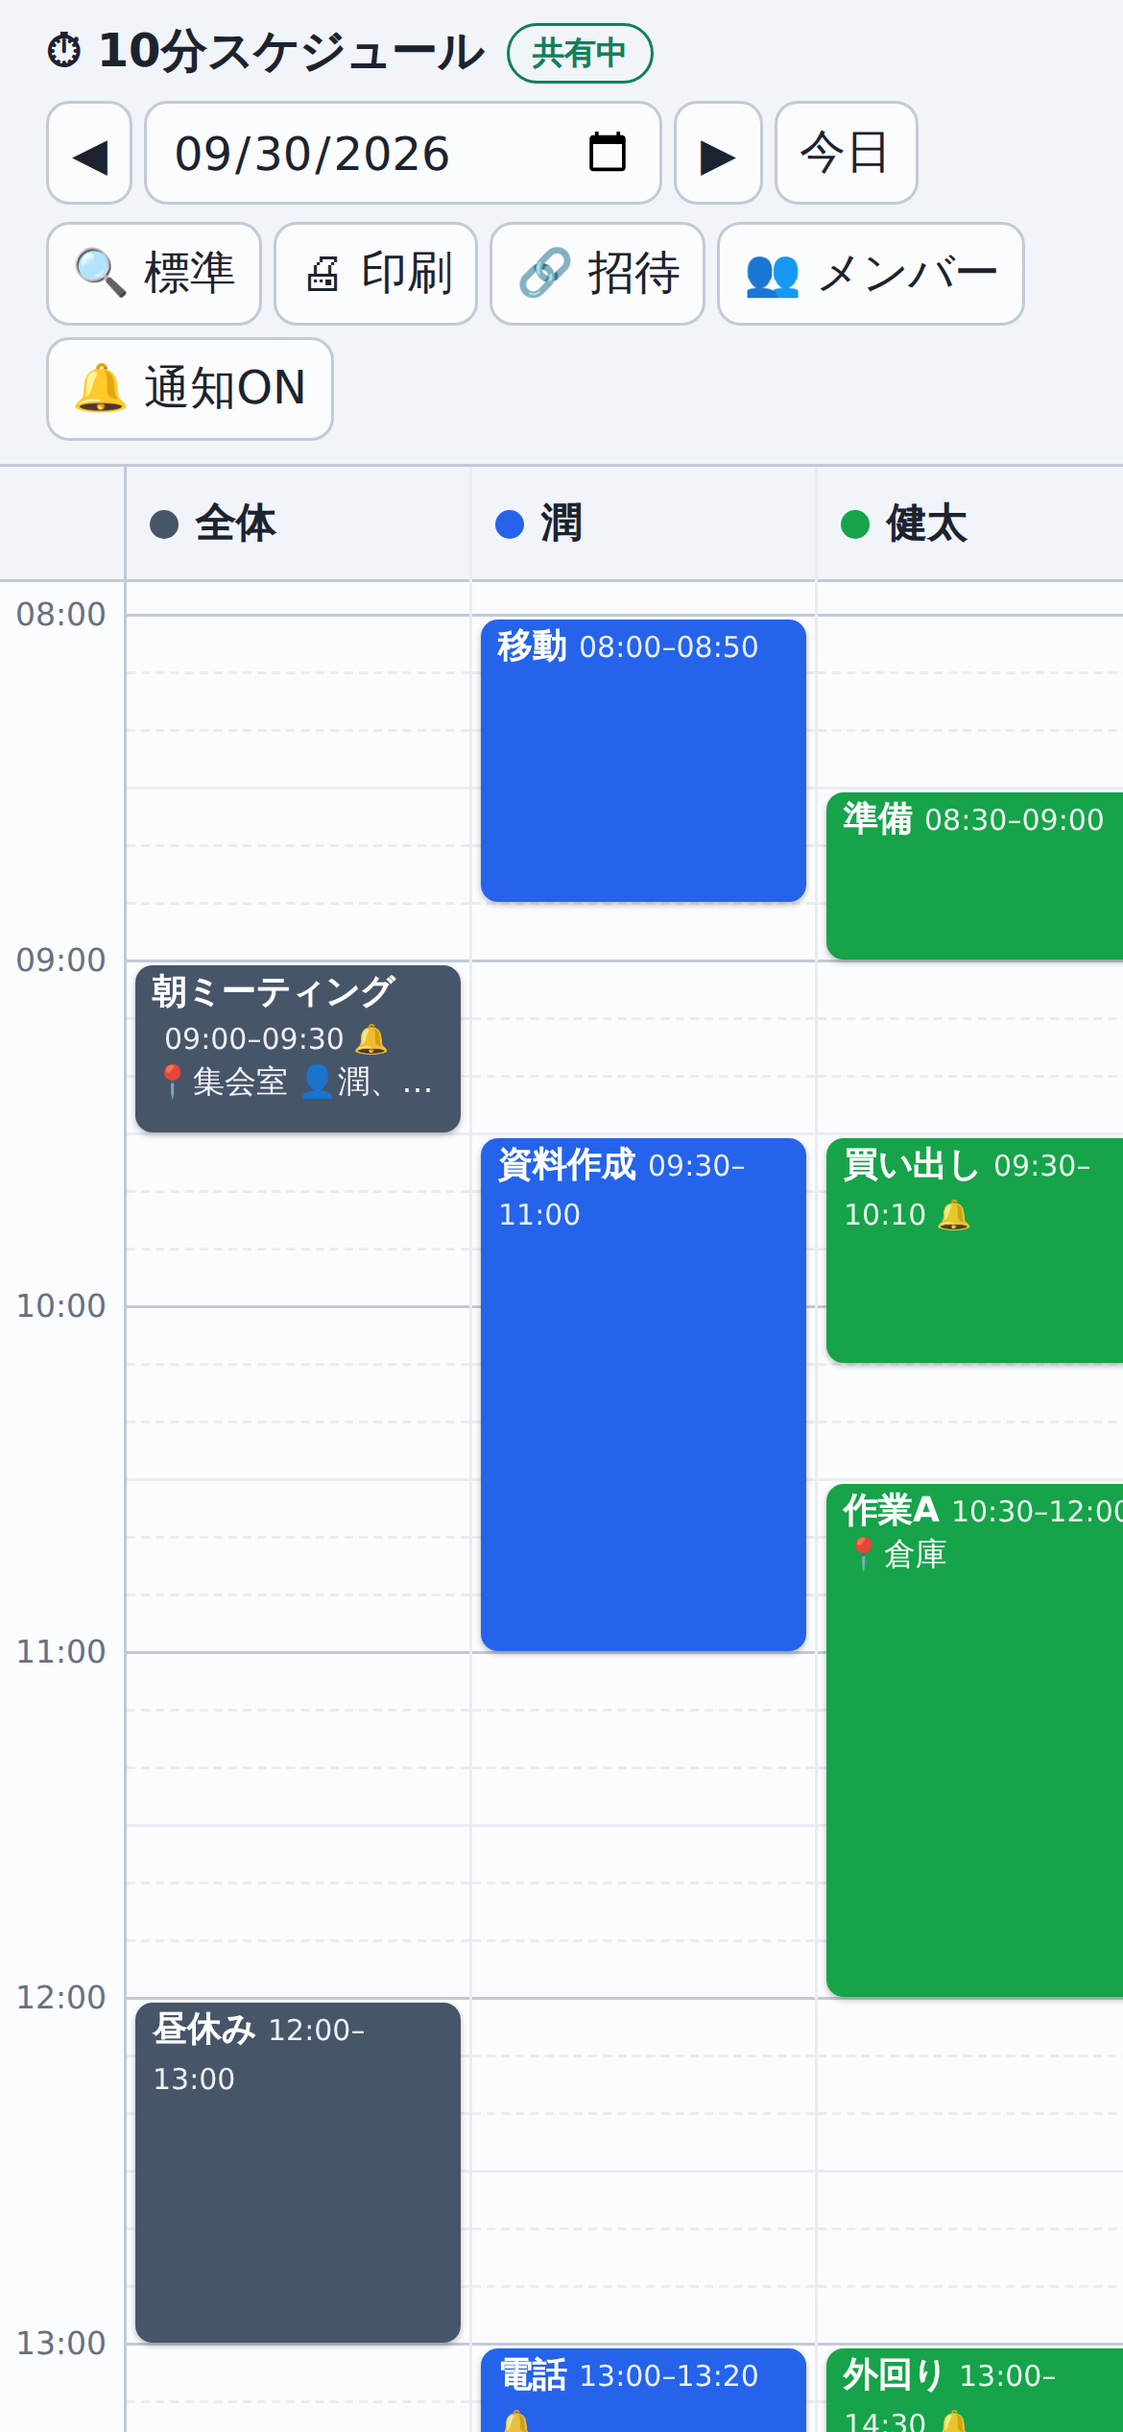
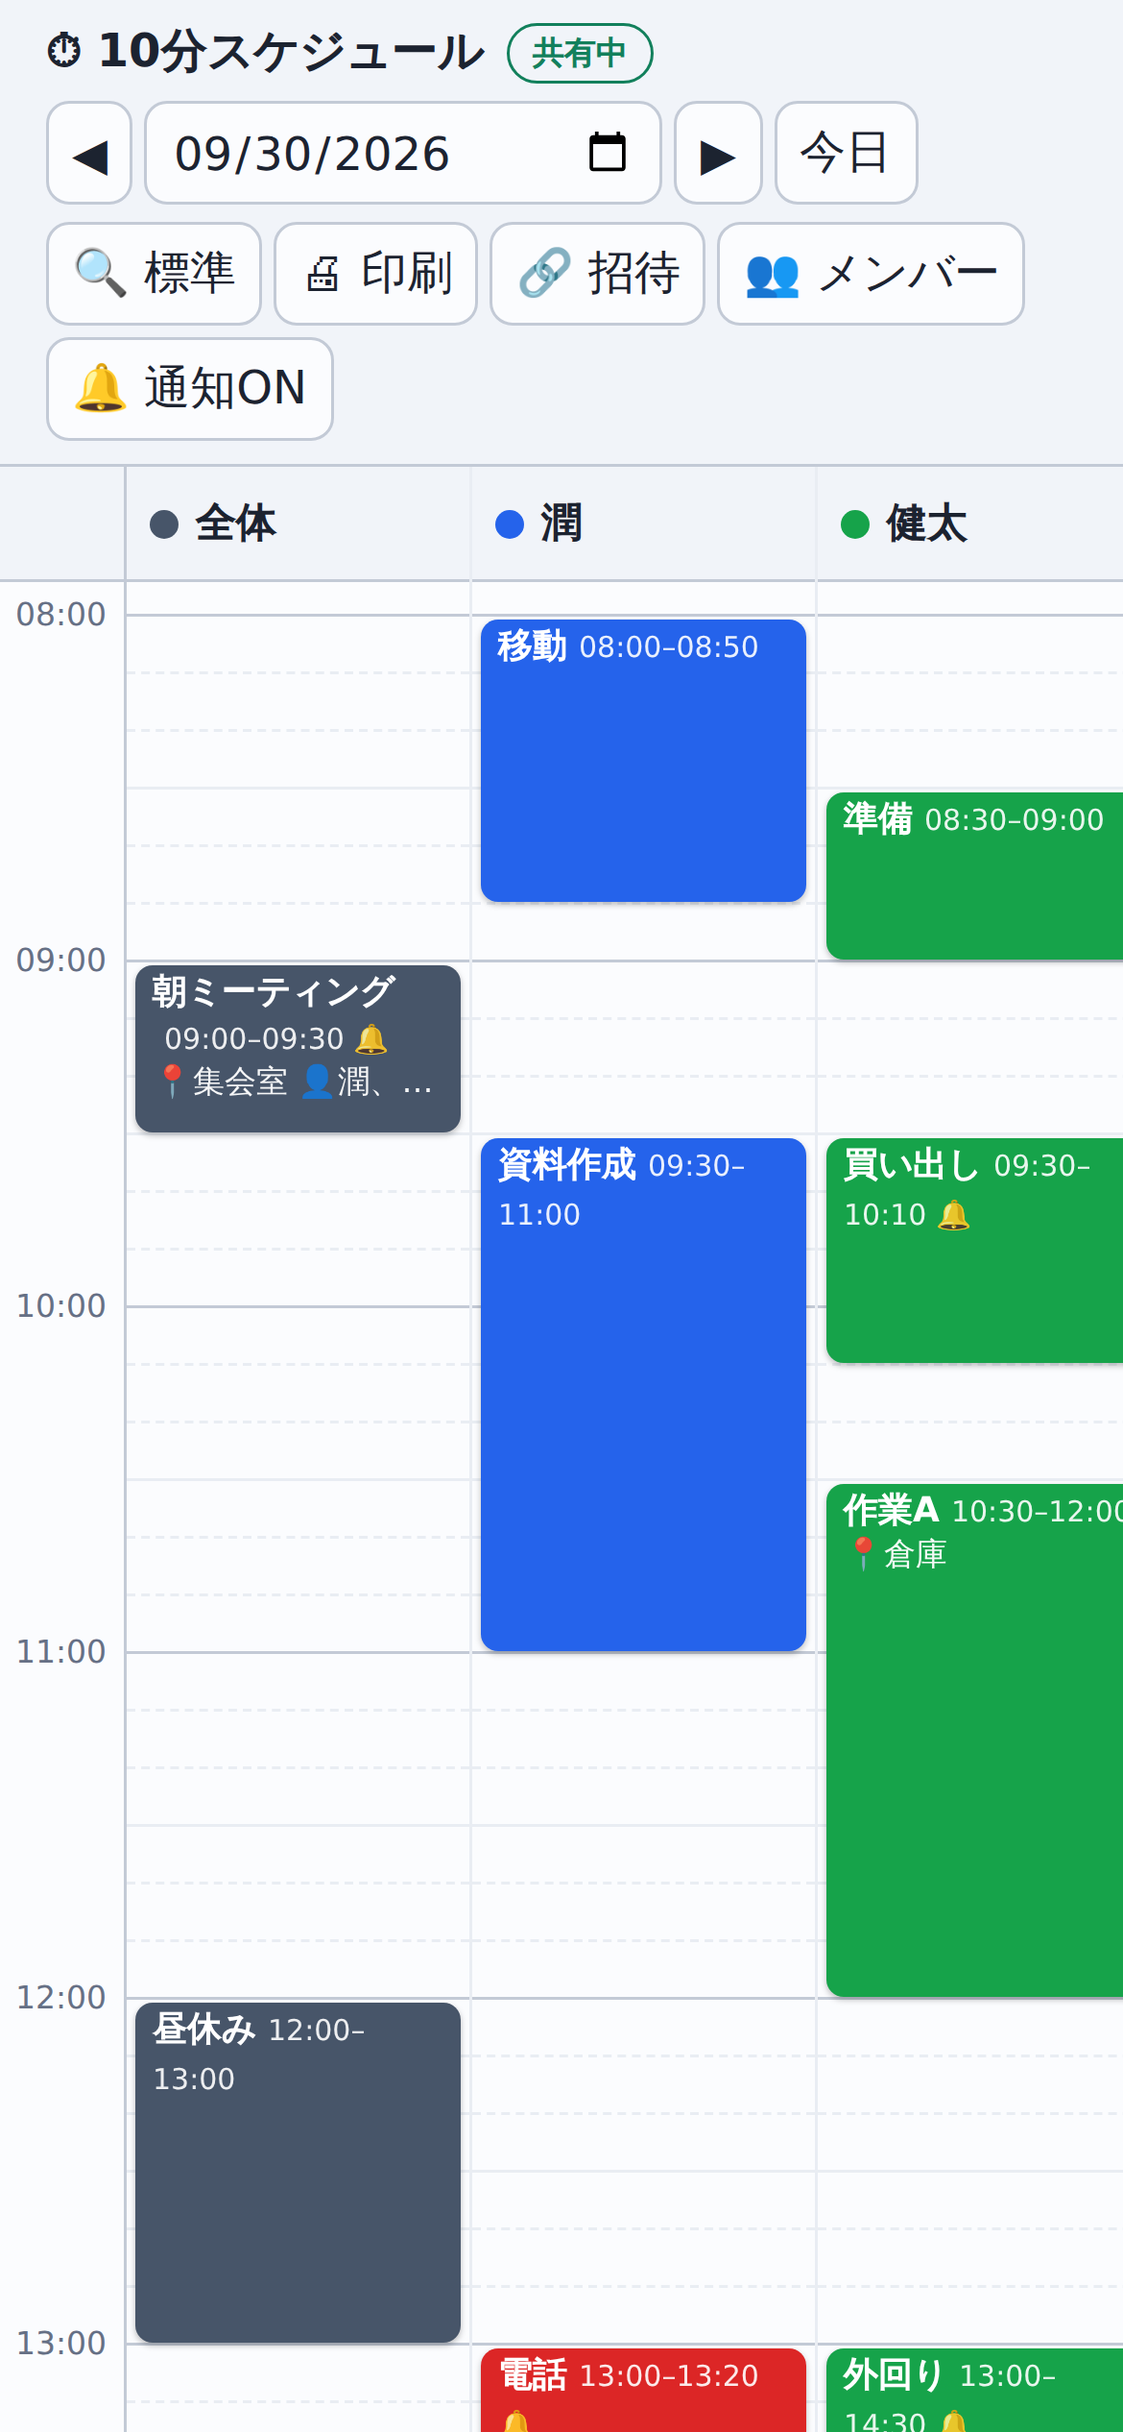
Let each event choose its own color
- Editor: "予定の色" with "メンバーの色" (default) plus 10 colours that keep
  white text readable; the default chip previews the selected member's colour
- Blocks and printed sheets use the event colour when set
- Empty colour is not sent; rules accept an optional #RRGGBB colour
- Tests now 61

Claude-Session: https://claude.ai/code/session_01HxEd5oszLPg2p3dJRWE6F7

Changed region(s): [[0.4308, 0.9672, 0.7385, 1.0]]

diff --git a/index.html b/index.html
@@ -114,6 +114,15 @@
   .row { display: flex; flex-wrap: wrap; gap: 8px; align-items: center; }
   .row > * { flex: 1; min-width: 90px; }
   dialog label > input[type=text], dialog label > select { width: 100%; min-width: 0; }
+  .field { display: grid; gap: 6px; }
+  .field-label { font-size: 13px; color: var(--muted); }
+  .swatches { display: flex; flex-wrap: wrap; gap: 8px; align-items: center; }
+  .swatch { width: 32px; height: 32px; min-height: 0; padding: 0; border-radius: 50%; border: 2px solid var(--bg);
+    box-shadow: 0 0 0 1px var(--line-strong); }
+  .swatch.default { width: auto; border-radius: 16px; padding: 0 10px 0 6px; display: inline-flex; align-items: center; gap: 6px;
+    background: var(--bg); font-size: 12px; box-shadow: 0 0 0 1px var(--line-strong); }
+  .swatch.default i { width: 20px; height: 20px; border-radius: 50%; display: inline-block; }
+  .swatch[aria-pressed="true"] { box-shadow: 0 0 0 3px var(--fg); }
   .actions { display: flex; flex-wrap: wrap; gap: 8px; justify-content: flex-end; margin-top: 6px; }
   .actions .danger { margin-right: auto; }
   .member-row { display: flex; gap: 6px; align-items: center; }
@@ -173,6 +182,10 @@
     <label>場所<input type="text" id="fPlace" placeholder="例: 第1会議室" maxlength="40"></label>
     <label>担当者（「、」で区切って10人まで）<input type="text" id="fPerson" placeholder="例: 田中、佐藤、鈴木" maxlength="200"></label>
     <label>メンバー（表示する列）<select id="fMember"></select></label>
+    <div class="field">
+      <span class="field-label">予定の色</span>
+      <div class="swatches" id="fColor" role="group" aria-label="予定の色"></div>
+    </div>
     <div class="row">
       <label>開始<select id="fStart"></select></label>
       <label>終了<select id="fEnd"></select></label>
@@ -283,6 +296,9 @@
   const ZOOM_KEY = 'tenmin-zoom';
   const NOTIFY_FOR_KEY = 'tenmin-notify-for';
   const COLORS = ['#2563eb', '#16a34a', '#db2777', '#ea580c', '#7c3aed', '#0891b2', '#ca8a04', '#475569'];
+  // 予定ごとに選べる色（白い文字が読める濃さの色だけ）
+  const EVENT_COLORS = ['#2563eb', '#0891b2', '#16a34a', '#65a30d', '#ca8a04', '#ea580c', '#dc2626', '#db2777', '#7c3aed', '#475569'];
+  const EVENT_COLOR_NAMES = ['青', '水色', '緑', '黄緑', '黄土', 'オレンジ', '赤', 'ピンク', '紫', 'グレー'];
   const MAX_PEOPLE = 10;                     // 1つの予定に入れられる担当者の人数
   const ZOOMS = [{ h: 12, label: '小' }, { h: 20, label: '標準' }, { h: 32, label: '大' }];
   // claude.ai の中（iframe）で開かれているか。中では印刷画面やファイル保存が使えない
@@ -324,6 +340,7 @@
       title: String(d.title ?? '').slice(0, 60),
       place: String(d.place ?? '').slice(0, 40),
       person: String(d.person ?? '').slice(0, 200),
+      color: /^#[0-9a-fA-F]{6}$/.test(d.color) ? d.color : '',
       remind: [0, 5, 10, 15, 30, 60].includes(Number(d.remind)) ? Number(d.remind) : 0,
       updatedAt: Number(d.updatedAt) || 0,
     };
@@ -376,6 +393,7 @@
     const b = body(ev);
     if (!b.place) delete b.place;
     if (!b.person) delete b.person;
+    if (!b.color) delete b.color;
     return b;
   };
 
@@ -516,7 +534,7 @@
         el.className = 'ev';
         el.style.top = `calc(var(--h) * ${ev.start} + 1px)`;
         el.style.height = `calc(var(--h) * ${ev.end - ev.start} - 2px)`;
-        el.style.background = m.color;
+        el.style.background = ev.color || m.color;
         const meta = eventMeta(ev);
         el.title = `${ev.title || '(無題)'} ${slotLabel(ev.start)}–${slotLabel(ev.end)}${meta ? '\n' + meta : ''}`;
         el.innerHTML = `<b>${esc(ev.title || '(無題)')}</b><small>${slotLabel(ev.start)}–${slotLabel(ev.end)}${ev.remind ? ' 🔔' : ''}</small>` +
@@ -652,6 +670,24 @@
   $('#fStart').innerHTML = Array.from({ length: SLOTS }, (_, i) => `<option value="${i}">${slotLabel(i)}</option>`).join('');
   $('#fEnd').innerHTML = Array.from({ length: SLOTS }, (_, i) => `<option value="${i + 1}">${slotLabel(i + 1)}</option>`).join('');
 
+  // 色の選択肢（先頭は「メンバーの色」＝色を指定しない）
+  let editColor = '';
+  function renderSwatches() {
+    const box = $('#fColor');
+    const member = state.members.find((m) => m.id === $('#fMember').value);
+    box.innerHTML = `<button type="button" class="swatch default" data-color="" aria-pressed="${!editColor}">` +
+      `<i style="background:${esc(member ? member.color : COLORS[0])}"></i>メンバーの色</button>` +
+      EVENT_COLORS.map((c, i) => `<button type="button" class="swatch" data-color="${c}" style="background:${c}" ` +
+        `aria-label="${EVENT_COLOR_NAMES[i]}" title="${EVENT_COLOR_NAMES[i]}" aria-pressed="${editColor === c}"></button>`).join('');
+  }
+  $('#fColor').addEventListener('click', (e) => {
+    const b = e.target.closest('.swatch');
+    if (!b) return;
+    editColor = b.dataset.color;
+    renderSwatches();
+  });
+  $('#fMember').addEventListener('change', renderSwatches);
+
   function openEditor(ev) {
     if (readOnly && !ev.id) return toast('閲覧のみのため、予定は追加できません。');
     editingId = ev.id || null;
@@ -664,6 +700,8 @@
     $('#fStart').value = ev.start;
     $('#fEnd').value = ev.end;
     $('#fRemind').value = ev.remind ?? 10;
+    editColor = ev.color || '';
+    renderSwatches();
     $('#fDelete').hidden = !editingId;
     $('#fError').hidden = true;
     editor.showModal();
@@ -683,6 +721,7 @@
       start: Number($('#fStart').value),
       end: Number($('#fEnd').value),
       remind: Number($('#fRemind').value),
+      color: editColor,
     };
     if (!state.members.some((m) => m.id === data.memberId)) return showErr('メンバー（表示する列）を選んでください。');
     if (data.end <= data.start) return showErr('終了時刻は開始時刻より後にしてください。');
@@ -998,7 +1037,7 @@
         const a = Math.max(ev.start, from), b = Math.min(ev.end, to);
         if (b <= a) continue;
         const ex = x + 6, ey = gy + (a - from) * rowH + 3, ew = colW - 12, eh = (b - a) * rowH - 6;
-        g.fillStyle = m.color; roundRect(g, ex, ey, ew, eh, 10); g.fill();
+        g.fillStyle = ev.color || m.color; roundRect(g, ex, ey, ew, eh, 10); g.fill();
         g.save(); g.beginPath(); g.rect(ex, ey, ew, eh); g.clip();
         g.fillStyle = '#ffffff';
         const title = ev.title || '(無題)', time = `${slotLabel(ev.start)}–${slotLabel(ev.end)}`;

diff --git a/tests/e2e.js b/tests/e2e.js
@@ -398,10 +398,12 @@ const toastText = (page) => page.$eval('#toast', (t) => t.textContent);
     await b.waitForSelector('.ev');
     check('招待リンクを開いた人に同じ予定が見える', (await evTexts(b)).some((t) => t.includes('リンク共有の予定09:00–09:30')));
     await b.click('.ev');
-    check('場所・担当者が空なら保存データに含めない', [...store.values()].some((f) => f.title && !('place' in f) && !('person' in f)));
+    check('場所・担当者・色が空なら保存データに含めない', [...store.values()].some((f) => f.title && !('place' in f) && !('person' in f) && !('color' in f)));
     await b.fill('#fTitle', 'Bが変更');
     await b.fill('#fPlace', '体育館');
     await b.fill('#fPerson', '佐藤');
+    await b.click('#fColor .swatch[data-color="#dc2626"]');
+    check('色を選ぶと選択中の表示になる', (await b.getAttribute('#fColor .swatch[data-color="#dc2626"]', 'aria-pressed')) === 'true');
     await b.click('#editorForm button[type=submit]');
     const synced = await a.waitForFunction(() => [...document.querySelectorAll('.ev')].some((e) => e.textContent.includes('Bが変更')),
       null, { timeout: 8000 }).then(() => true, () => false);
@@ -409,6 +411,9 @@ const toastText = (page) => page.$eval('#toast', (t) => t.textContent);
     check('場所・担当者もサーバーに保存され、Aに表示される',
       [...store.values()].some((f) => f.place && f.place.stringValue === '体育館' && f.person.stringValue === '佐藤')
       && (await evTexts(a)).some((t) => t.includes('📍体育館') && t.includes('👤佐藤')));
+    check('選んだ色がサーバーに保存され、Aの画面でもその色になる',
+      [...store.values()].some((f) => f.color && f.color.stringValue === '#dc2626')
+      && (await a.$eval('.ev', (e) => getComputedStyle(e).backgroundColor)) === 'rgb(220, 38, 38)');
 
     const c = await ctx.newPage();
     await c.goto(base);

diff --git a/tools/make_examples.js b/tools/make_examples.js
@@ -10,10 +10,10 @@ const members=[
   {id:'m4',name:'翔',color:'#ea580c',order:4},
 ];
 const t=(h,m)=>h*6+m/10; let n=0;
-const ev=(memberId,sh,sm,eh,em,title,remind=10,place='',person='')=>({id:'e'+(n++),date:DATE,memberId,start:t(sh,sm),end:t(eh,em),title,place,person,remind,updatedAt:1});
+const ev=(memberId,sh,sm,eh,em,title,remind=10,place='',person='',color='')=>({id:'e'+(n++),date:DATE,memberId,start:t(sh,sm),end:t(eh,em),title,place,person,color,remind,updatedAt:1});
 const events=[
   ev('all',9,0,9,30,'朝ミーティング',10,'集会室','潤、健太、美咲、翔'), ev('all',12,0,13,0,'昼休み',0), ev('all',17,30,18,0,'片付け・振り返り'),
-  ev('m1',6,30,6,40,'起床',0), ev('m1',8,0,8,50,'移動',0), ev('m1',9,30,11,0,'資料作成',0), ev('m1',13,0,13,20,'電話',5), ev('m1',14,0,15,30,'打ち合わせ',10,'第1会議室','美咲'), ev('m1',16,0,16,40,'メール返信',0),
+  ev('m1',6,30,6,40,'起床',0), ev('m1',8,0,8,50,'移動',0), ev('m1',9,30,11,0,'資料作成',0), ev('m1',13,0,13,20,'電話',5,'','','#dc2626'), ev('m1',14,0,15,30,'打ち合わせ',10,'第1会議室','美咲','#7c3aed'), ev('m1',16,0,16,40,'メール返信',0),
   ev('m2',8,30,9,0,'準備',0), ev('m2',9,30,10,10,'買い出し',15), ev('m2',10,30,12,0,'作業A',0,'倉庫',''), ev('m2',13,0,14,30,'外回り',30,'駅前エリア','健太'), ev('m2',15,0,15,10,'連絡',5), ev('m2',15,30,17,0,'作業B',0),
   ev('m3',9,30,10,0,'受付',0), ev('m3',10,0,11,40,'接客',0), ev('m3',13,0,13,50,'会議準備'), ev('m3',14,0,15,30,'打ち合わせ'), ev('m3',16,0,17,20,'発送作業',0),
   ev('m4',10,0,10,30,'出発',10), ev('m4',11,0,12,0,'現場確認',0,'A棟','翔'), ev('m4',13,0,14,0,'作業',0), ev('m4',14,10,14,20,'休憩',0), ev('m4',15,0,16,30,'報告書',0),

diff --git a/docs/SUMMARY.md b/docs/SUMMARY.md
@@ -13,6 +13,7 @@
   - スマホは開始マス→終了マスの2回タップ、PCはドラッグ
   - 入力画面で、タイトル・場所・担当者（「、」区切りで10人まで）・メンバー（表示する列）・時刻・リマインドを設定
   - 予定のブロックに「📍場所 👤担当者」を表示し、印刷にも載る
+  - 予定ごとに色を選べる（10色。選ばなければメンバーの色）
   - 同じ人の予定が重なると保存できず、理由が表示される
 - **メンバー管理**：名前・色の変更、追加、削除。「全体」の列を作って全員の予定を入れる使い方もできる
 - **共有**
@@ -51,7 +52,7 @@
   - `README.md`：使い方
   - `docs/SETUP.md`：公開手順
   - `docs/examples/`：画面例と印刷例の画像
-  - `tests/e2e.js`：動作テスト（57項目）
+  - `tests/e2e.js`：動作テスト（61項目）
 
 ---
 
@@ -95,7 +96,7 @@
   ドラッグだと縦スクロールとぶつかるため、タッチでは2タップ方式にする。touch-action: pan-x pan-y でスクロールはブラウザに任せ、指が8px以上動いたらタップ扱いしない
 - 1回目のタップ後は「開始 09:00 を選択 → 終了のマスをタップ」とトースト表示。Esc キーで取り消し
 - 予定ブロックをタップ／クリックすると編集画面
-- 入力画面（<dialog>）：タイトル（60文字まで）、場所（40文字まで・任意）、担当者名（任意。「、」区切りで10人まで、1人20文字まで。保存時に区切りを「、」にそろえる。全体200文字まで）、メンバー（表示する列）、開始、終了（10分刻みのセレクト）、リマインド（なし／5／10／15／30／60分前、初期値10分前）、保存・キャンセル・削除（編集時のみ）
+- 入力画面（<dialog>）：タイトル（60文字まで）、場所（40文字まで・任意）、担当者名（任意。「、」区切りで10人まで、1人20文字まで。保存時に区切りを「、」にそろえる。全体200文字まで）、メンバー（表示する列）、予定の色（「メンバーの色」＋白文字が読める10色から選ぶ。未選択ならメンバーの色）、開始、終了（10分刻みのセレクト）、リマインド（なし／5／10／15／30／60分前、初期値10分前）、保存・キャンセル・削除（編集時のみ）
 - 保存前のチェック（エラーは入力画面の中に赤字で表示）：
   - 終了が開始より後であること
   - 同じメンバー・同じ日で時間が重なる予定がないこと（重なる予定のタイトルと時刻を表示）
@@ -115,7 +116,7 @@
 - 「🔗 招待」：navigator.share が使えれば共有シートを開き、使えなければリンクとコピーボタンのダイアログを表示。「リンクを知っている人は誰でも編集できるので仲間内だけで共有してください」と注意書き
 - データの場所：
   - boards/{予定表ID}/members/{メンバーID} … name(文字列), color(#RRGGBB), order(数値)
-  - boards/{予定表ID}/events/{予定ID} … date(YYYY-MM-DD), memberId, start(整数0-143), end(整数1-144), title, place(任意), person(任意), remind(整数), updatedAt(数値)。place・person は空なら送らない
+  - boards/{予定表ID}/events/{予定ID} … date(YYYY-MM-DD), memberId, start(整数0-143), end(整数1-144), title, place(任意), person(任意), color(任意・#RRGGBB), remind(整数), updatedAt(数値)。place・person・color は空なら送らない
   - boards/{予定表ID}/meta/rev … rev(整数・更新番号)
 - 【重要】Firebase の公式 JavaScript SDK は使わず、Firestore の REST API を fetch で直接呼ぶこと。
   理由：SDK のストリーミング通信は回線によって途中で切られ、保存がサーバーに届かないのに画面上は保存できたように見える事故が起きるため。
@@ -158,7 +159,7 @@ service cloud.firestore {
     }
     match /boards/{boardId}/events/{eventId} {
       allow read, delete: if true;
-      allow create, update: if request.resource.data.keys().hasOnly(['date', 'memberId', 'start', 'end', 'title', 'place', 'person', 'remind', 'updatedAt'])
+      allow create, update: if request.resource.data.keys().hasOnly(['date', 'memberId', 'start', 'end', 'title', 'place', 'person', 'color', 'remind', 'updatedAt'])
         && request.resource.data.date is string && request.resource.data.date.matches('^[0-9]{4}-[0-9]{2}-[0-9]{2}$')
         && request.resource.data.memberId is string && request.resource.data.memberId.size() <= 64
         && request.resource.data.start is int && request.resource.data.start >= 0 && request.resource.data.start < 144
@@ -167,6 +168,7 @@ service cloud.firestore {
         && request.resource.data.title is string && request.resource.data.title.size() <= 60
         && (!('place' in request.resource.data) || (request.resource.data.place is string && request.resource.data.place.size() <= 40))
         && (!('person' in request.resource.data) || (request.resource.data.person is string && request.resource.data.person.size() <= 200))
+        && (!('color' in request.resource.data) || (request.resource.data.color is string && request.resource.data.color.matches('^#[0-9a-fA-F]{6}$')))
         && request.resource.data.remind in [0, 5, 10, 15, 30, 60]
         && request.resource.data.updatedAt is number;
     }

diff --git a/README.md b/README.md
@@ -43,5 +43,5 @@
 - `firestore.rules` … Firestore のアクセスルール（Firebase コンソールに貼り付け）
 - `tools/build_artifact.py <出力パス>` … claude.ai 公開用の本体部分を切り出す
 - `tests/e2e.js` … 動作テスト（Playwright + Chromium）。`node tests/e2e.js` で実行
-  - この端末モード・スマホ幅・claude.ai 共有モード・Firebase モード（いずれも疑似サーバーで2人同時編集を再現）の計57項目
+  - この端末モード・スマホ幅・claude.ai 共有モード・Firebase モード（いずれも疑似サーバーで2人同時編集を再現）の計61項目
 - 設計メモ: [docs/DESIGN.md](docs/DESIGN.md)（要件整理・技術構成・UI・通知方針・本番化手順）
